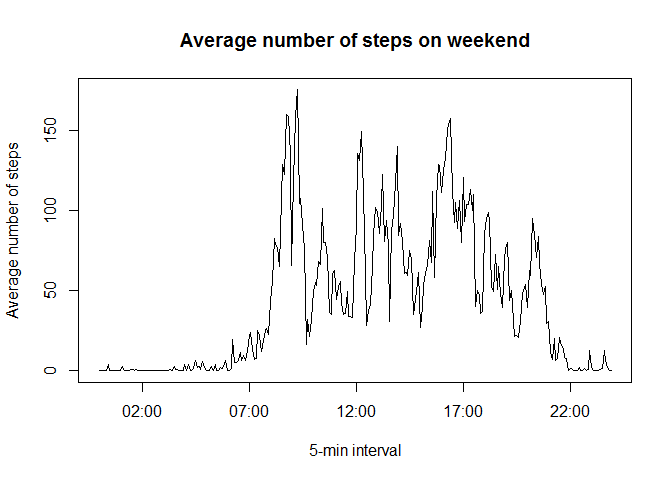
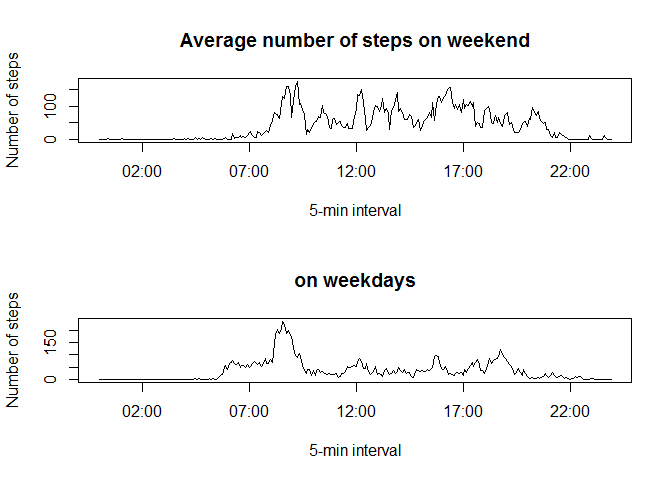
added panel plot

diff --git a/PA1_template.html b/PA1_template.html
@@ -148,17 +148,17 @@ legend(30, c(&quot;Without NA's&quot;, &quot;With NA's&quot;), fill=c(&quot;skyb
 dataWeekdays &lt;- transform(dataFilled,
                           day=factor(isWeekend(date),levels=c(T,F),
                                      labels=c(&quot;weekend&quot;,&quot;weekday&quot;)))</code></pre>
-<p>Finally we make a time series plot of the 5-minute interval and the average number of steps taken, averaged across all weekday days or weekend days (y-axis).</p>
+<p>Finally we make a time series plot of the 5-minute interval and the average number of steps taken, averaged across all weekday days or weekend days (y-axis). On weekdays, the activity pattern is considerably different from the weekends, where people do not have to walk to work.</p>
 <pre class="r"><code>stepsWeekend &lt;- aggregate(steps ~ interval+day, dataWeekdays, mean)
 stepsWeekend &lt;- transform(stepsWeekend, time = intervalToTime(interval))
+par(&quot;mfrow&quot;=c(2,1))
 with(stepsWeekend[stepsWeekend$day==&quot;weekend&quot;,],
      plot(time, steps, type=&quot;l&quot;, main=&quot;Average number of steps on weekend&quot;,
-          xlab=&quot;5-min interval&quot;, ylab=&quot;Average number of steps&quot;))</code></pre>
[1 lines of base64/hex data omitted]
-<pre class="r"><code>with(stepsWeekend[stepsWeekend$day!=&quot;weekend&quot;,],
-     plot(time, steps, type=&quot;l&quot;, main=&quot;Average number of steps on weekdays&quot;,
-          xlab=&quot;5-min interval&quot;, ylab=&quot;Average number of steps&quot;))</code></pre>
[1 lines of base64/hex data omitted]
+          xlab=&quot;5-min interval&quot;, ylab=&quot;Number of steps&quot;))
+with(stepsWeekend[stepsWeekend$day!=&quot;weekend&quot;,],
+     plot(time, steps, type=&quot;l&quot;, main=&quot;on weekdays&quot;,
+          xlab=&quot;5-min interval&quot;, ylab=&quot;Number of steps&quot;))</code></pre>
[1 lines of base64/hex data omitted]
 </div>
 
 

diff --git a/PA1_template.md b/PA1_template.md
@@ -188,23 +188,18 @@ dataWeekdays <- transform(dataFilled,
                                      labels=c("weekend","weekday")))
 ```
 
-Finally we make a time series plot of the 5-minute interval and the average number of steps taken, averaged across all weekday days or weekend days (y-axis).
+Finally we make a time series plot of the 5-minute interval and the average number of steps taken, averaged across all weekday days or weekend days (y-axis). On weekdays, the activity pattern is considerably different from the weekends, where people do not have to walk to work.
 
 ```r
 stepsWeekend <- aggregate(steps ~ interval+day, dataWeekdays, mean)
 stepsWeekend <- transform(stepsWeekend, time = intervalToTime(interval))
+par("mfrow"=c(2,1))
 with(stepsWeekend[stepsWeekend$day=="weekend",],
      plot(time, steps, type="l", main="Average number of steps on weekend",
-          xlab="5-min interval", ylab="Average number of steps"))
+          xlab="5-min interval", ylab="Number of steps"))
+with(stepsWeekend[stepsWeekend$day!="weekend",],
+     plot(time, steps, type="l", main="on weekdays",
+          xlab="5-min interval", ylab="Number of steps"))
 ```
 
 ![](PA1_template_files/figure-html/unnamed-chunk-15-1.png) 
-
-```r
-with(stepsWeekend[stepsWeekend$day!="weekend",],
-     plot(time, steps, type="l", main="Average number of steps on weekdays",
-          xlab="5-min interval", ylab="Average number of steps"))
-```
-
-![](PA1_template_files/figure-html/unnamed-chunk-15-2.png) 
-On weekdays, the activity pattern is considerably different from the weekends, where people do not have to go to work.
